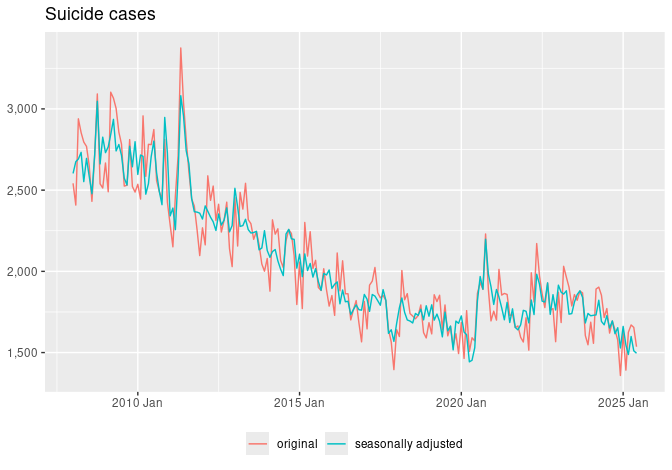
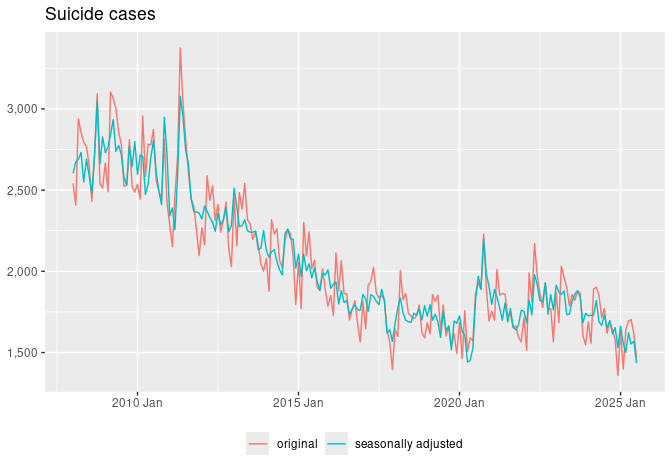
update July 2025 cases

diff --git a/README.md b/README.md
@@ -10,7 +10,7 @@ Mitsuo Shiota
 - [Suicide cases are bouncing back, but not as fast as the program
   suggests](#suicide-cases-are-bouncing-back-but-not-as-fast-as-the-program-suggests)
 
-Updated: 2025-08-02
+Updated: 2025-08-29
 
 ## Motivation
 
